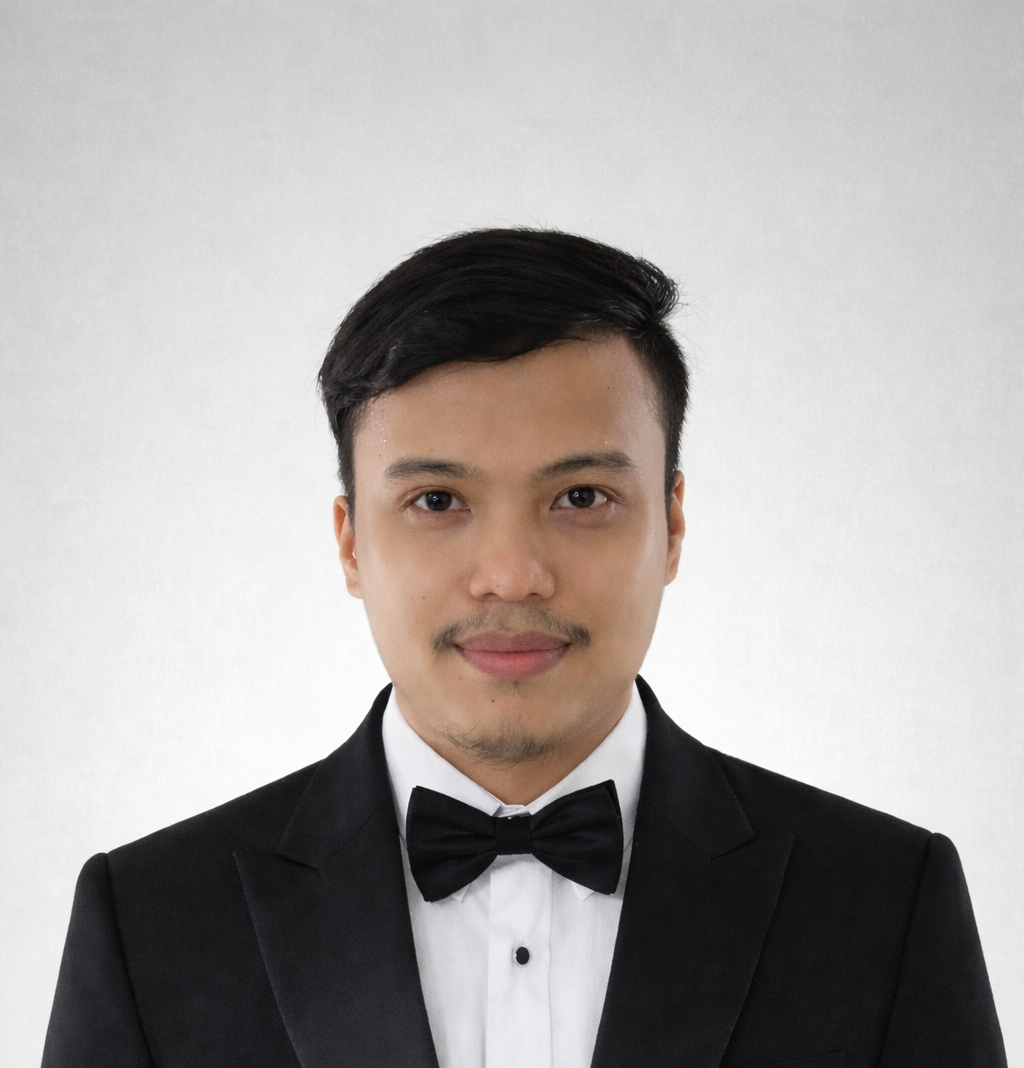
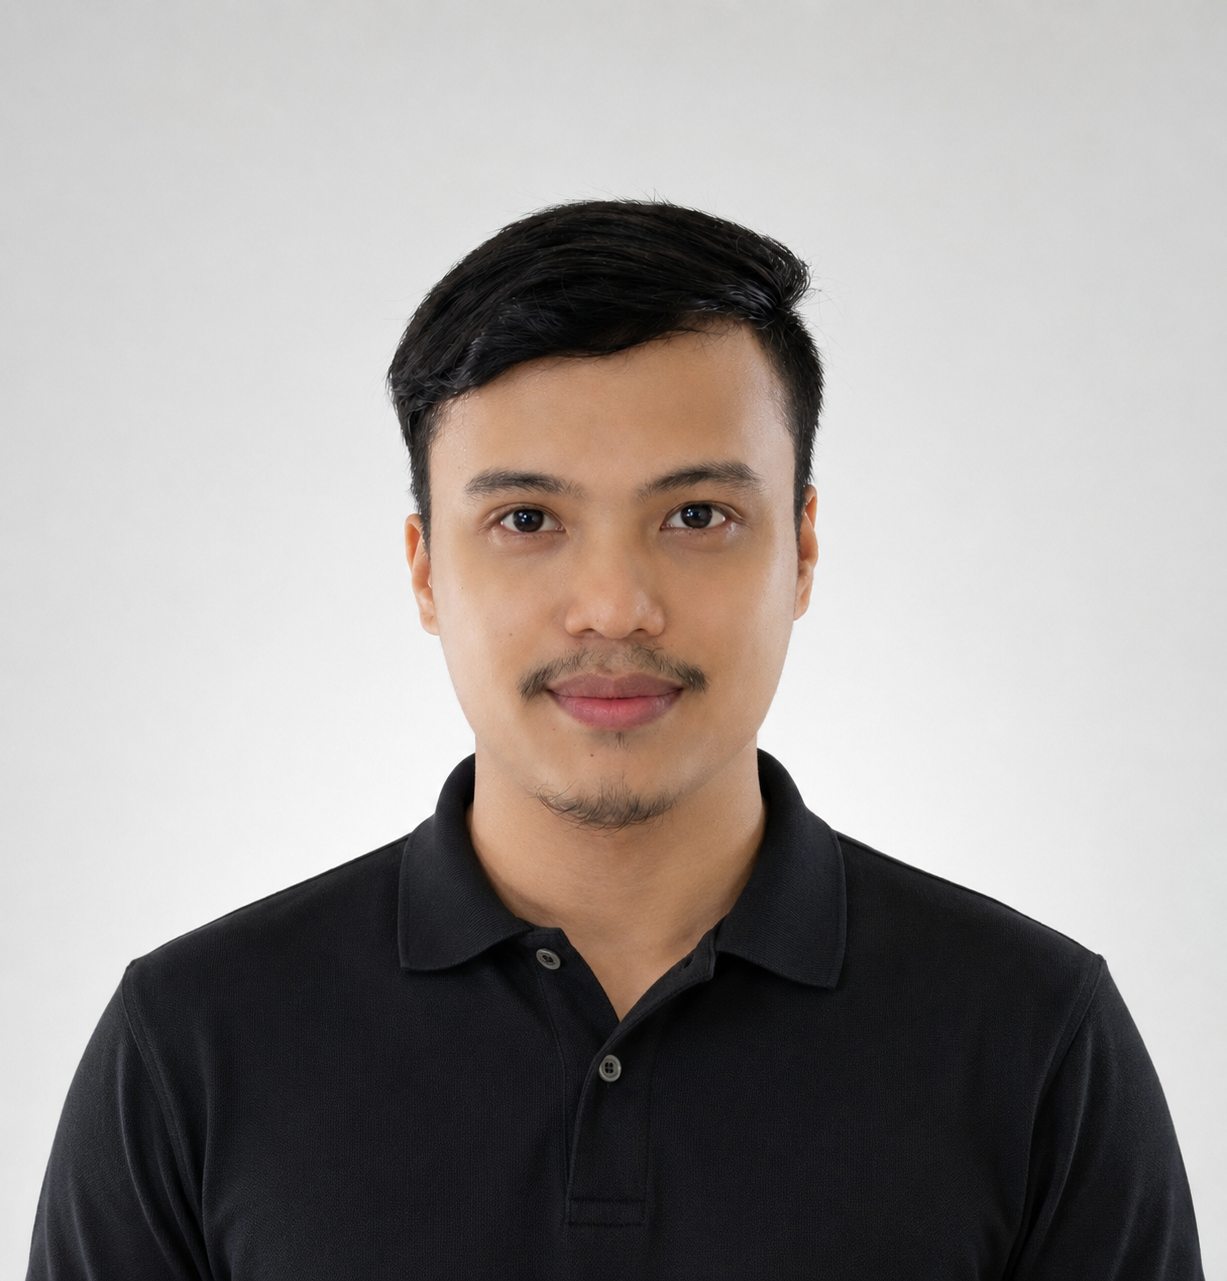
updated

diff --git a/index.html b/index.html
@@ -60,13 +60,12 @@
 
                     <div>
                         <h2 class="about_subtitle">Hi, Im John Reymart Billiones</h2>
-                        <span class="about_profession">IT Student | Aspiring Tech Professional</span>
-                        <p class="about_text">I am an IT student with a strong interest in technology and software development. I enjoy learning how to build
-                        user-friendly applications and exploring frontend development. Currently, I am improving my skills
-                        through academic projects and personal practice while preparing to take on part-time opportunities in the tech field.
-                        I am passionate about problem-solving, eager to learn new technologies and motivated to gain real-world experience.
-                        Let’s connect and grow together!</p>
-
+                        <span class="about_profession">Web Developer | Aspiring Tech Professional</span>
+                        <p class="about_text">Aspiring web developer with experience in building web and mobile 
+                            applications through academic and personal projects. Passionate about UI/UX design 
+                            and creating simple, responsive and user-friendly interfaces. Also has basic skills 
+                            in teamwork, communication and adaptability. Eager to learn more and gain real-world 
+                            experience in both technical and non-technical tasks.</p>
                         <div class="about_social">
                             <a href="https://www.linkedin.com/in/reyy-billiones-653276326/" class="about_social-icon"><i class='bx bxl-linkedin' ></i></a>
                             <a href="https://github.com/ReyySensei" class="about_social-icon"><i class='bx bxl-github' ></i></a>
@@ -82,26 +81,22 @@
                     <div class="education_content">
                         <h3 class="education_title">Bachelor of Science in Information Technology</h3>
                         <span class="education_school">Holy Cross of Davao College</span><br>
-                        <span class="education_year">2022 – Present</span>
+                        <span class="education_year">2022 – 2027</span>
                         <p class="education_text">
-                            Currently pursuing a degree in Information Technology, focusing on software development,
-                            web technologies and database systems. Actively working on academic and personal projects
-                            to strengthen practical skills.
+                            Focusing on web development. Gained experience in designing and developing 
+                            responsive websites, creating user-friendly interfaces and working with databases 
+                            through academic and personal projects. Continuously improving technical and 
+                            exploring modern web technologies and UI/UX design.
                         </p>
                     </div>
                     <div class="education_content">
-                        <h3 class="education_title">Senior High School – ICT Strand</h3>
+                        <h3 class="education_title">Information and Communications Technology (ICT)</h3>
                         <span class="education_school">University of Mindanao Ilang High School</span><br>
                         <span class="education_year">2018 – 2020</span>
                         <p class="education_text">
                             Specialized in Information and Communications Technology, gaining foundational knowledge
                             in programming, computer systems and basic networking.
                         </p>
-                    </div>
-                    <div class="education_content">
-                        <h3 class="education_title">Junior High School</h3>
-                        <span class="education_school">University of Mindanao Ilang High School</span><br>
-                        <span class="education_year">2014 – 2018</span>
                     </div>
                 </div>
             </section>
@@ -111,14 +106,21 @@
 
                 <div class="skills_container bd-grid">
                     <div class="skills_box">
-                        <h3 class="skills_subtitle">Development</h3>
+                        <h3 class="skills_subtitle">Technical Skills</h3>
                         <span class="skills_name">Html</span>
                         <span class="skills_name">Css</span>
-                        <span class="skills_name">Javasript</span>
+                        <span class="skills_name">JavaScript</span>
                         <span class="skills_name">React</span>
-                        <h3 class="skills_subtitle">Design</h3>
                         <span class="skills_name">Canva</span>
                         <span class="skills_name">Figma</span>
+                        <span class="skills_name">Java</span>
+
+                        <h3 class="skills_subtitle">Soft Skills</h3>
+                        <span class="skills_name">Communication</span>
+                        <span class="skills_name">Teamwork</span>
+                        <span class="skills_name">Adaptability</span>
+                        <span class="skills_name">Task Prioritization</span>
+                        <span class="skills_name">Time Management</span>
                     </div>
 
                     <div class="skills_img">
@@ -284,10 +286,9 @@
 
                         <h3 class="contact_subtitle">ADRRESS</h3>
                         <span class="contact_text">Amparo Village Ilang, Davao City, Philippines</span>
-                        <a href="assets/resume/John-Reymart-Billiones-Resume.pdf" class="contact_button resume_button" target="_blank">
+                        <a href="assets/img/resume.jpg" class="contact_button resume_button" target="_blank">
                             View My Resume
                         </a>
-                        
                     </div>
 
                     <form action="" class="contact_form" id="contactForm">

diff --git a/assets/css/styles.css b/assets/css/styles.css
@@ -660,11 +660,11 @@ img{
 
 @media screen and (min-width: 1024px) {
     .home_img {
-        height: 90%;
-        width: 500px;
+        height: 65%;
+        width: 140%;
         margin-right: 0;
         border-radius: 100px;
-        margin-bottom: 15px;
+        margin-bottom: 120px;
     }
 
     .home_title {